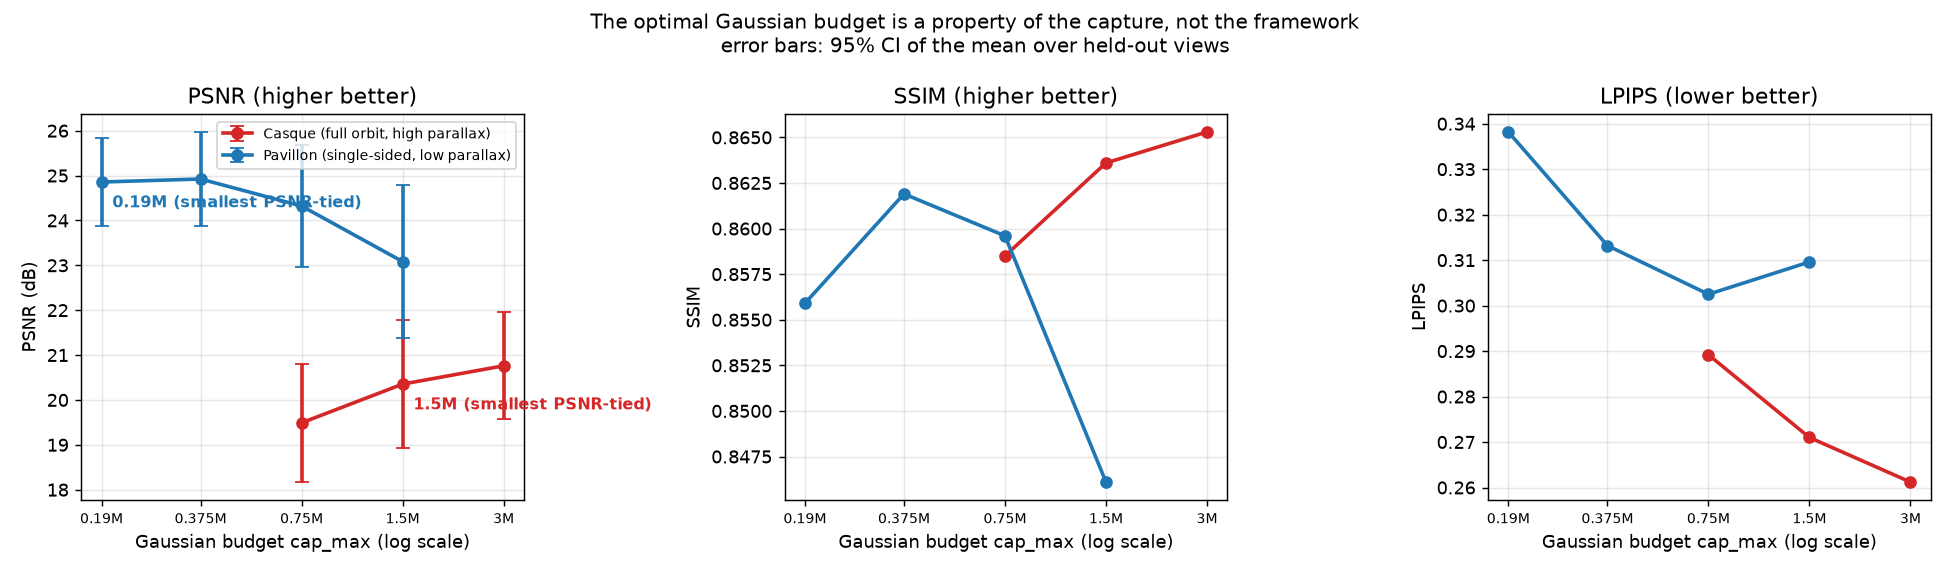
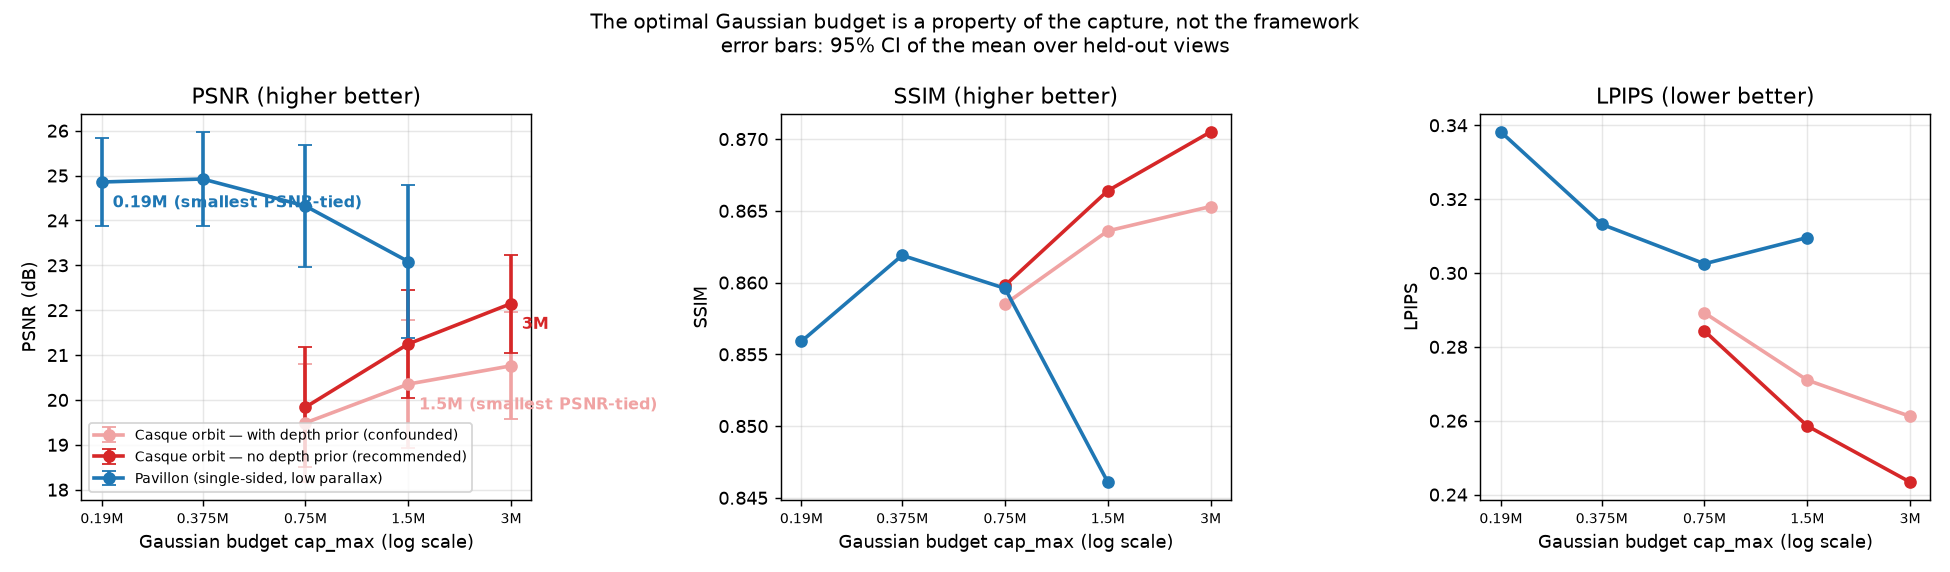
Correct the capacity conclusion: the plateau was an artifact of the depth prior
With the harmful depth prior removed and everything else identical, BOTH capacity steps
are significant:

  cap_max        750k     1.5M      3M
  depth ON      19.49    20.35   20.76      <- what the original sweep measured
  depth OFF     19.84    21.25   22.15
  prior's cost  +0.35    +0.89   +1.39      <- grows with capacity

  750k -> 1.5M  +1.41 dB CI [+0.81, +2.01]  12/13  significant
  1.5M -> 3M    +0.90 dB CI [+0.41, +1.39]  11/13  significant

We had reported 1.5M -> 3M as a tie (+0.41 dB, CI [-0.45, +1.26]) and concluded the curve
'rises then plateaus' with 1.5M as the operating point. It does not plateau -- it is still
climbing at 3M, and a 6M probe is running.

The mechanism matters for how to run any sweep: the prior's damage GROWS with capacity,
because more primitives means more of them pulled toward the reflection-depths it supplies.
A confound that scales with the swept variable does not merely shift the curve, it changes
its shape -- so it cannot be corrected after the fact by subtracting an offset.

The Pavillon inversion is strengthened, not weakened: its 375k optimum would now cost more
than two decibels here.

Both series are kept in capacity_curve.py and plotted together, so the confound stays
visible rather than being quietly replaced.

diff --git a/scripts/capacity_curve.py b/scripts/capacity_curve.py
@@ -42,10 +42,20 @@ SERIES = {
                  "gsplat_hidetail_cap750k", "gsplat_hidetail_30k"],
         "label": "Pavillon (single-sided, low parallax)",
     },
+    # Two Casque series, because the depth prior turned out to change the curve's SHAPE and
+    # not merely its level. With the prior on, 1.5M -> 3M reads as a tie and the curve looks
+    # like it plateaus; with it off, both steps are significant and it is still climbing.
+    # Keeping both plotted is the point: the confound is visible rather than quietly fixed.
     "casque": {
         "dataset": "casque_orbit_07ccd886",
         "runs": ["casque_cap750k", "casque_gsplat", "casque_cap3m"],
-        "label": "Casque (full orbit, high parallax)",
+        "label": "Casque orbit — with depth prior (confounded)",
+    },
+    "casque_nodepth": {
+        "dataset": "casque_orbit_07ccd886",
+        "runs": ["casque_nodepth_cap750k", "casque_nodepth",
+                 "casque_nodepth_cap3m", "casque_nodepth_cap6m"],
+        "label": "Casque orbit — no depth prior (recommended)",
     },
 }
 
@@ -122,7 +132,8 @@ def main() -> int:
         return 1
 
     fig, axes = plt.subplots(1, 3, figsize=(15, 4.4))
-    colors = {"pavillon": "#1f77b4", "casque": "#d62728"}
+    colors = {"pavillon": "#1f77b4", "casque": "#f0a3a3",
+              "casque_nodepth": "#d62728"}
 
     for name, (label, pts) in series.items():
         caps = [p["cap"] / 1e6 for p in pts]

diff --git a/docs/reproduce_casque.md b/docs/reproduce_casque.md
@@ -47,6 +47,15 @@ single 4K clip; the multi-clip config is the one that needs appearance embedding
    python -m video_to_3dgs.cli inspect-video --config configs/pipeline/casque/casque.yaml
    ```
 
+0. **Turn the monocular depth prior OFF** (already set in the config). It helps the
+   Pavillon and costs almost nothing there, so we carried it over — but ablated here it
+   **loses 0.89 dB** (21.25 → 20.35, CI [+0.28, +1.51] for removing it, 9/13 views) and is
+   worse on SSIM and LPIPS too. DepthAnything is trained on ordinary photographs, so on a
+   mirror-like surface it predicts the depth of the *reflected scene* rather than of the
+   surface: a chrome helmet gets confidently wrong targets exactly where photometric
+   supervision is weakest, while the orbit's parallax already pins the geometry. Treat
+   monocular depth priors as suspect on any reflective subject.
+
 2. **Do NOT mask this capture** (a gate test settled it). rembg's salient-object model
    swings from 0.1% to 45% of the frame across the orbit — chrome reflections, a wispy
    horsehair plume and a competing stand defeat it. More importantly, the scene has a
@@ -77,21 +86,30 @@ single 4K clip; the multi-clip config is the one that needs appearance embedding
    ```
    Measured on the held-out split (13 test views):
 
-   | `cap_max` | 750 k | **1.5 M** | 3 M |
+   Measured with the depth prior **off** (step 0 — it is harmful here, see below):
+
+   | `cap_max` | 750 k | 1.5 M | **3 M** |
    |---|---|---|---|
-   | PSNR | 19.49 | **20.35** | 20.76 |
-   | SSIM | 0.8585 | 0.8636 | 0.8653 |
-   | LPIPS | 0.2892 | 0.2710 | 0.2612 |
+   | PSNR | 19.84 | 21.25 | **22.15** |
+   | SSIM | 0.8598 | 0.8664 | **0.8705** |
+   | LPIPS | 0.2843 | 0.2586 | **0.2434** |
 
    Read the *paired* per-view comparison, not the means: 750 k → 1.5 M is
-   **+0.86 dB, CI [+0.34, +1.39]** (real), while 1.5 M → 3 M is **+0.41 dB,
-   CI [−0.45, +1.26]** — a tie. So **1.5 M is the operating point**; 3 M doubles the
-   model for a gain inside the error bar. Regenerate the curve and these statistics with:
+   **+1.41 dB, CI [+0.81, +2.01]** (12/13 views) and 1.5 M → 3 M is **+0.90 dB,
+   CI [+0.41, +1.39]** (11/13). Both real, so the curve is still climbing at 3 M — start
+   there and probe higher. Regenerate the curve and these statistics with:
    ```bash
    python scripts/capacity_curve.py --out docs/assets/capacity_curve.png
    ```
-   The Pavillon's 375 k optimum does **not** transfer: copying it here costs over a
-   decibel. The transferable rule is the method, not the number.
+
+   > **Sweep with the rest of the config already settled.** Our first sweep ran with the
+   > depth prior on, whose damage grows with capacity (+0.35 dB at 750 k, +1.39 at 3 M).
+   > That flattened the top of the curve, so 1.5 M → 3 M read as a tie and we wrongly
+   > concluded the curve plateaued at 1.5 M. A confound that scales with the variable you
+   > are sweeping does not just shift the curve — it changes its shape.
+
+   The Pavillon's 375 k optimum does **not** transfer: copying it here costs more than two
+   decibels. The transferable rule is the method, not the number.
 
 5. **Mesh.** Run `casque_2dgs.yaml` for a surface-aligned mesh; also export the 3DGS
    TSDF mesh (`export` emits `mesh.ply` automatically) and compare. Unlike the

diff --git a/docs/technique_transfer.md b/docs/technique_transfer.md
@@ -38,19 +38,29 @@ safe to assume and are being measured rather than copied:
 
    | `cap_max` | 750 k | 1.5 M | 3 M |
    |---|---|---|---|
-   | test PSNR | 19.49 | **20.35** | 20.76 |
-   | SSIM | 0.8585 | 0.8636 | **0.8653** |
-   | LPIPS | 0.2892 | 0.2710 | **0.2612** |
+   | with depth prior *(confounded)* | 19.49 | 20.35 | 20.76 |
+   | **no depth prior (recommended)** | 19.84 | 21.25 | **22.15** |
 
-   Paired per-view tests over the 13 test views: 750 k → 1.5 M is **+0.86 dB, 95 % CI
-   [+0.34, +1.39]** (10/13 views improve) — real. 1.5 M → 3 M is **+0.41 dB, CI
-   [−0.45, +1.26]** (8/13) — **a tie**. So the Casque curve *rises then plateaus*
-   rather than turning, and **1.5 M is the operating point**: 3 M doubles the model for
-   a gain indistinguishable from noise.
+   **A correction worth reading, because the confound changed the curve's shape and not
+   just its level.** Measured *with* the depth prior — which every earlier number here
+   used — 1.5 M → 3 M came out at **+0.41 dB, CI [−0.45, +1.26]**, a tie, and we
+   concluded the curve "rises then plateaus" with 1.5 M as the operating point. With the
+   prior removed, both steps are significant:
 
-   Copying the Pavillon's 375 k here would have cost well over a decibel. The rule that
-   transfers is not the number but the method: **sweep capacity per capture, and read
-   the paired CI rather than the mean.**
+   - 750 k → 1.5 M: **+1.41 dB, CI [+0.81, +2.01]**, 12/13 views
+   - 1.5 M → 3 M: **+0.90 dB, CI [+0.41, +1.39]**, 11/13 views
+
+   So there is no plateau — the curve is **still climbing at 3 M**, and a 6 M probe is
+   running to find where it turns. The prior's damage *grows with capacity* (+0.35 at
+   750 k, +0.89 at 1.5 M, +1.39 at 3 M), which is what flattened the top of the curve and
+   manufactured the plateau: more primitives means more of them pulled toward the
+   reflection-depths the prior supplies (see the depth-prior section below).
+
+   The inversion versus the Pavillon is *strengthened*, not weakened — copying its 375 k
+   optimum here would now cost more than two decibels. And the methodological rule
+   survives its own correction: **sweep capacity per capture, read the paired CI rather
+   than the mean — and make sure nothing else in the configuration is fighting you**, or
+   the sweep measures the confound instead of the capacity.
 
 2. **2DGS works here — CONFIRMED, after one loss weight was fixed.** It collapsed on the
    Pavillon because a surface-aligned disk must recover a normal that a single-sided

diff --git a/README.md b/README.md
@@ -334,21 +334,32 @@ measured, and **two of the three surprised us**.
 
 <p align="center">
   <img src="docs/assets/capacity_curve.png" width="960" alt="Capacity sweep for both captures"><br>
-  <em>The same sweep on both objects. The curves run in opposite directions:
-  the low-parallax Pavillon degrades with capacity, the orbit improves with it.
+  <em>The same sweep on both objects. The curves run in opposite directions: the
+  low-parallax Pavillon degrades with capacity, the orbit improves with it. The pale red
+  series is the same orbit sweep measured with a depth prior that turned out to be
+  harmful — kept visible because it changed the curve's <em>shape</em>.
   Regenerate with <code>python scripts/capacity_curve.py</code>.</em>
 </p>
 
-| Casque `cap_max` | 750 k | **1.5 M** | 3 M |
+| Casque `cap_max` | 750 k | 1.5 M | **3 M** |
 |---|---|---|---|
-| PSNR | 19.49 | **20.35** | 20.76 |
-| LPIPS | 0.2892 | 0.2710 | 0.2612 |
+| PSNR *(with depth prior — confounded)* | 19.49 | 20.35 | 20.76 |
+| **PSNR (no depth prior — recommended)** | 19.84 | 21.25 | **22.15** |
 
-Judged *paired* per view: 750 k → 1.5 M is **+0.86 dB, CI [+0.34, +1.39]** (real);
-1.5 M → 3 M is **+0.41 dB, CI [−0.45, +1.26]** — a **tie**. So the curve rises then
-plateaus, and **1.5 M is the operating point**: 3 M doubles the model for a gain inside
-the error bar. Copying the Pavillon's 375 k here would have cost over a decibel.
-**The number does not transfer; the method does — sweep per capture, and read the CI.**
+Judged *paired* per view, with the prior removed: 750 k → 1.5 M is **+1.41 dB, CI
+[+0.81, +2.01]** (12/13 views) and 1.5 M → 3 M is **+0.90 dB, CI [+0.41, +1.39]**
+(11/13). Both real — the curve is **still climbing at 3 M**, and a 6 M probe is running.
+
+**This corrects an earlier conclusion of ours.** Measured *with* the depth prior, that
+second step read as a tie (+0.41 dB, CI [−0.45, +1.26]) and we reported the curve as
+"rises then plateaus" with 1.5 M as the operating point. The prior's damage grows with
+capacity (+0.35 dB at 750 k, +0.89 at 1.5 M, +1.39 at 3 M), which flattened the top of
+the curve and manufactured that plateau. The inversion versus the Pavillon is
+*strengthened*: copying its 375 k here now costs more than two decibels.
+
+**The number does not transfer; the method does — sweep per capture, read the paired CI,
+and make sure nothing else in the config is fighting you**, or the sweep measures the
+confound rather than the capacity.
 
 **2. 2DGS works here — but only after the metric was disbelieved.**
 